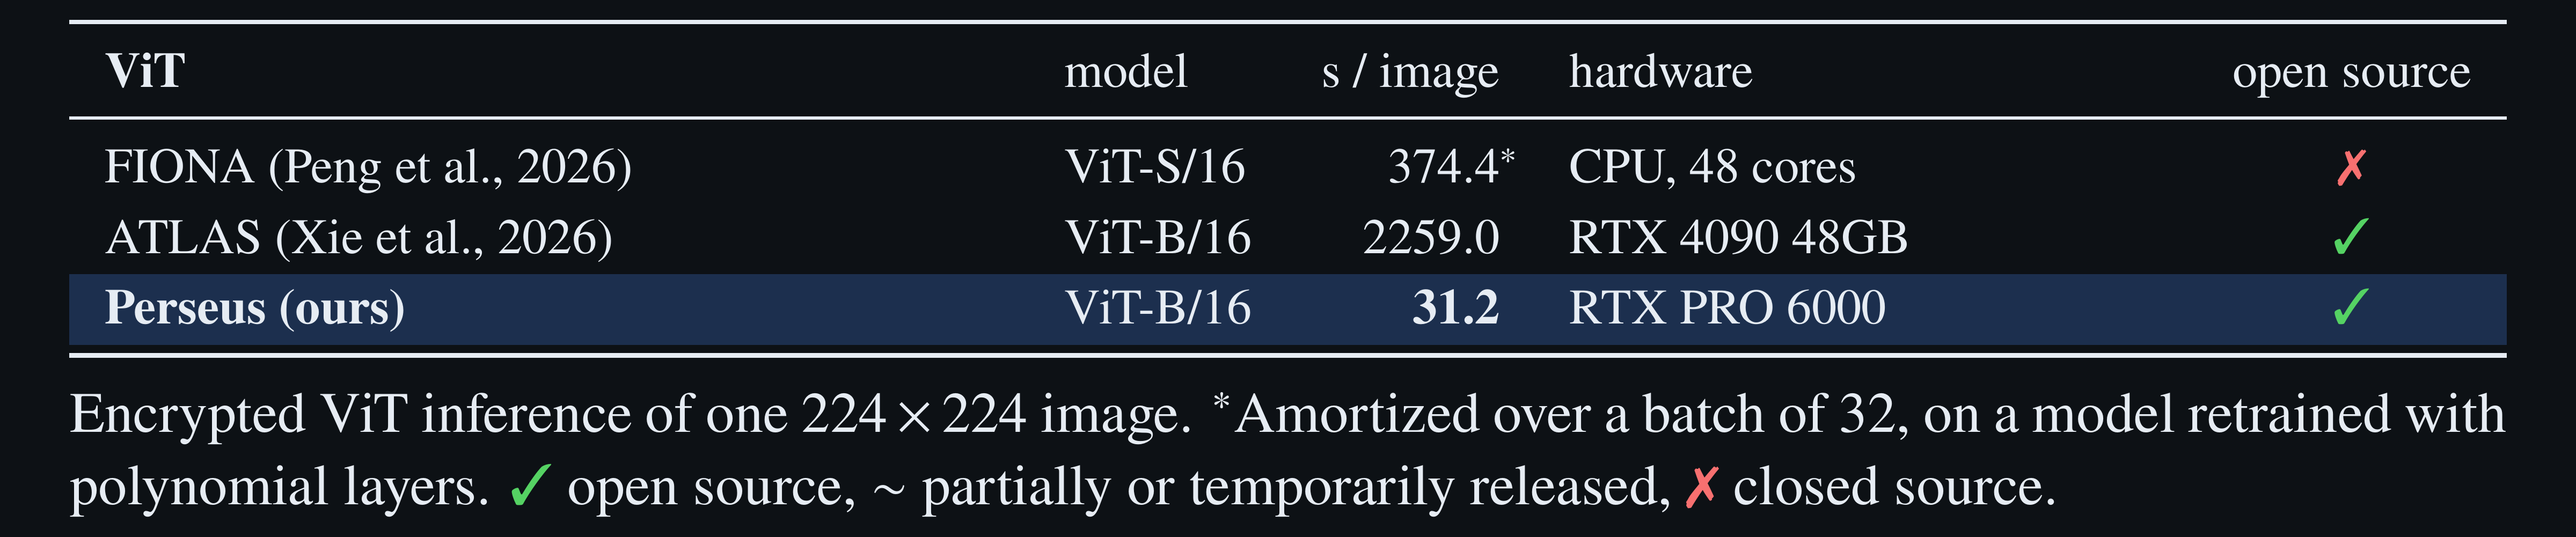
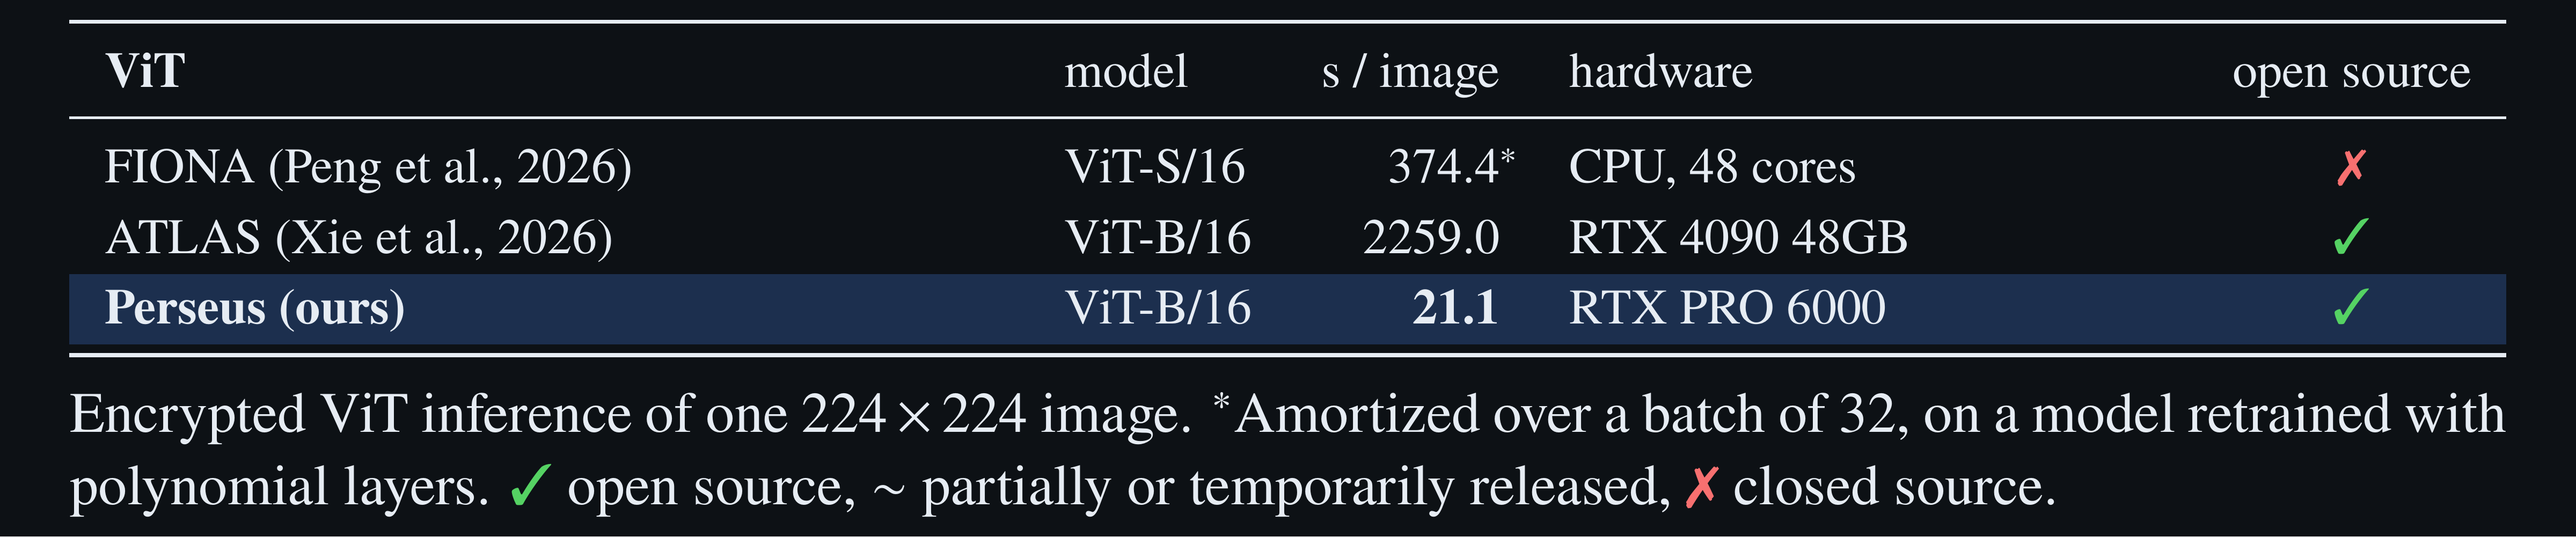
README: the times, peak memory and core primitives of the new defaults

Changed region(s): [[0.0, 0.991, 1.0, 1.0], [0.5312, 0.5574, 0.5625, 0.5884]]

diff --git a/assets/paper-tables.tex b/assets/paper-tables.tex
@@ -16,15 +16,15 @@
 \pagecolor{bg}\color{fg}
 \arrayrulecolor{fg}
 \setlength{\dashlinedash}{3pt}\setlength{\dashlinegap}{3pt}
-% Perseus' numbers on the Rust + CUDA runtime (the shipped default plans, 2026-10-30: medians of 2 paired rounds on
+% Perseus' numbers on the Rust + CUDA runtime (the shipped default plans, 2026-11-02: medians of 2 paired rounds on
 % one isolated GPU; decode at a 512-token context, positions 500-511 after a 500-position plaintext prefix)
-\newcommand{\llamapf}{71.0}\newcommand{\llamadec}{9.69}\newcommand{\gptpf}{9.62}\newcommand{\gptdec}{2.62}
-\newcommand{\vitimg}{31.2}\newcommand{\bertin}{12.2}
+\newcommand{\llamapf}{54.8}\newcommand{\llamadec}{7.83}\newcommand{\gptpf}{6.77}\newcommand{\gptdec}{1.91}
+\newcommand{\vitimg}{21.1}\newcommand{\bertin}{8.57}
 % peak GPU memory, GiB: total (94.97) minus the lowest free of the run (the prefills replay CUDA graphs, captured in
 % the first forward after setup); the decode rows at a short context (the repro scripts' 16 tokens), Llama's the
 % GPU's peak used memory over the run (its runner reports no free memory)
-\newcommand{\llamapfmem}{86.3}\newcommand{\llamadecmem}{48.2}\newcommand{\gptpfmem}{58.8}\newcommand{\gptdecmem}{59.1}
-\newcommand{\vitmem}{60.6}\newcommand{\bertmem}{56.0}
+\newcommand{\llamapfmem}{86.0}\newcommand{\llamadecmem}{50.7}\newcommand{\gptpfmem}{56.2}\newcommand{\gptdecmem}{56.7}
+\newcommand{\vitmem}{62.0}\newcommand{\bertmem}{57.3}
 \newcommand{\oursrow}{\rowcolor{ours}}
 \newcommand{\oc}{\cellcolor{ours}}
 \newcommand{\yes}{\textcolor{yescol}{\ding{51}}}
@@ -133,7 +133,8 @@ Cerium (Jayashankar et al., 2025) & BERT-base & 128 & 43.6\nt{\S} & RTX PRO 6000
 our GPU. \legend}
 \end{tbl}
 
-% perseus-core primitives (2026-10-30, GPU 4 alone, PC_BENCH_CHAIN=n32a4): pc-bench modmul --k 1,8 --reps 20 (the u32xBarrett64
+% perseus-core primitives (2026-11-02, GPU 4 alone, PC_BENCH_CHAIN=n32a4; pc-bench built with --features pc-kernels/mont,
+% the Montgomery instantiation modmul compares): pc-bench modmul --k 1,8 --reps 20 (the u32xBarrett64
 % column, rotation KS Regen, rescale = its `rescale only` row, batch rows / 8) and pc-bench bts --all --k 1,8 --reps 20
 % --keys packed (eager)
 \begin{tbl}
@@ -141,19 +142,19 @@ our GPU. \legend}
 \toprule
 \textbf{perseus-core} & one ciphertext (ms) & batch of 8 (ms per ciphertext) \\
 \midrule
-addition & 0.015 & 0.054 \\
-multiplication by a scalar & 0.016 & 0.037 \\
+addition & 0.014 & 0.054 \\
+multiplication by a scalar & 0.017 & 0.037 \\
 multiplication by a plaintext & 0.015 & 0.037 \\
-multiplication, relinearized & 0.413 & 0.439 \\
-rescale & 0.057 & 0.072 \\
-rotation & 0.360 & 0.378 \\
-NTT, forward and inverse & 0.070 & 0.098 \\
+multiplication, relinearized & 0.356 & 0.415 \\
+rescale & 0.047 & 0.065 \\
+rotation & 0.284 & 0.358 \\
+NTT, forward and inverse & 0.057 & 0.089 \\
 \cdashline{1-3}\noalign{\vskip 3pt}
-bootstrap, dense ($2^{15}$ slots) & 15.2 & 14.0 \\
-bootstrap, StC first ($2^{15}$ slots) & 13.0 & 11.7 \\
-bootstrap, sparse (512 slots) & 13.1 & 13.0 \\
-bootstrap, sparse (256 slots) & 12.2 & 12.6 \\
-bootstrap, one slot & 7.3 & 7.7 \\
+bootstrap, dense ($2^{15}$ slots) & 12.2 & 12.8 \\
+bootstrap, StC first ($2^{15}$ slots) & 10.5 & 10.7 \\
+bootstrap, sparse (512 slots) & 10.7 & 11.9 \\
+bootstrap, sparse (256 slots) & 10.0 & 11.4 \\
+bootstrap, one slot & 5.8 & 6.9 \\
 \bottomrule
 \end{tabularx}
 \tcap{\thickmuskip=5mu\medmuskip=4mu CKKS primitives on one NVIDIA RTX PRO 6000, device time per call (CUDA events), the

diff --git a/README.md b/README.md
@@ -37,7 +37,7 @@ our 32-bit GPU port of [FIDESlib](https://github.com/CAPS-UMU/FIDESlib)).
     <picture>
       <source media="(prefers-color-scheme: dark)" srcset="assets/paper-tables-overview-dark.png">
       <source media="(prefers-color-scheme: light)" srcset="assets/paper-tables-overview-light.png">
-      <img src="assets/paper-tables-overview-light.png" alt="Perseus, encrypted, end to end on one RTX PRO 6000 with 128-bit security, and the peak GPU memory of each run (Llama-3-8B streams its weights from host memory, GPT-2 small keeps its weights on the GPU). Llama-3-8B prefill of a 128-token prompt 71.0 s (86.3 GiB), decode of one token at a 512-token context 9.69 s (48.2 GiB when decoding 16 tokens). GPT-2 small prefill 9.62 s (58.8 GiB), decode 2.62 s per token at a 512-token context (59.1 GiB when decoding 16 tokens). ViT-B/16 31.2 s per image (60.6 GiB). BERT-base 12.2 s for 128 tokens (56.0 GiB)." width="707">
+      <img src="assets/paper-tables-overview-light.png" alt="Perseus, encrypted, end to end on one RTX PRO 6000 with 128-bit security, and the peak GPU memory of each run (Llama-3-8B streams its weights from host memory, GPT-2 small keeps its weights on the GPU). Llama-3-8B prefill of a 128-token prompt 54.8 s (86.0 GiB), decode of one token at a 512-token context 7.83 s (50.7 GiB when decoding 16 tokens). GPT-2 small prefill 6.77 s (56.2 GiB), decode 1.91 s per token at a 512-token context (56.7 GiB when decoding 16 tokens). ViT-B/16 21.1 s per image (62.0 GiB). BERT-base 8.57 s for 128 tokens (57.3 GiB)." width="707">
     </picture>
   </a>
 </p>
@@ -64,7 +64,7 @@ ours where the code is released.
     <picture>
       <source media="(prefers-color-scheme: dark)" srcset="assets/paper-tables-llama-dark.png">
       <source media="(prefers-color-scheme: light)" srcset="assets/paper-tables-llama-light.png">
-      <img src="assets/paper-tables-llama-light.png" alt="Encrypted Llama-3-8B. Prefill of a 128-token prompt, seconds. MOAI 3592.0 on H200, NEXUS 829.0 on 4 A100, Euston 484.0, STIP 406.6 (composed timings, amortized over a batch); Odin 366.4 on H100; Cerium 347.5 (replicated on RTX PRO 6000); Sylph 116.0 (composed); Perseus 71.0 on RTX PRO 6000, open source. Decode of one token, seconds per token at a context size. AR-HE 1569.0 at 32, ROSETTA 311.0 at 512, Cachemir 97.0 at 512, Sylph 31.0 at 128 (all composed timings); Perseus 9.69 at 512 on RTX PRO 6000, open source." width="707">
+      <img src="assets/paper-tables-llama-light.png" alt="Encrypted Llama-3-8B. Prefill of a 128-token prompt, seconds. MOAI 3592.0 on H200, NEXUS 829.0 on 4 A100, Euston 484.0, STIP 406.6 (composed timings, amortized over a batch); Odin 366.4 on H100; Cerium 347.5 (replicated on RTX PRO 6000); Sylph 116.0 (composed); Perseus 54.8 on RTX PRO 6000, open source. Decode of one token, seconds per token at a context size. AR-HE 1569.0 at 32, ROSETTA 311.0 at 512, Cachemir 97.0 at 512, Sylph 31.0 at 128 (all composed timings); Perseus 7.83 at 512 on RTX PRO 6000, open source." width="707">
     </picture>
   </a>
   <br>
@@ -72,7 +72,7 @@ ours where the code is released.
     <picture>
       <source media="(prefers-color-scheme: dark)" srcset="assets/paper-tables-gpt2-dark.png">
       <source media="(prefers-color-scheme: light)" srcset="assets/paper-tables-gpt2-light.png">
-      <img src="assets/paper-tables-gpt2-light.png" alt="Encrypted GPT-2 small. AR-HE 128-token prefill 18520.0 s, decode 544.0 s per token at context 33. ROSETTA decode 78.6 s at 512 (composed). EncryptedLLM decode 68.0 s at 128. Perseus prefill 9.62 s, decode 2.62 s per token at context 512, on RTX PRO 6000, open source." width="707">
+      <img src="assets/paper-tables-gpt2-light.png" alt="Encrypted GPT-2 small. AR-HE 128-token prefill 18520.0 s, decode 544.0 s per token at context 33. ROSETTA decode 78.6 s at 512 (composed). EncryptedLLM decode 68.0 s at 128. Perseus prefill 6.77 s, decode 1.91 s per token at context 512, on RTX PRO 6000, open source." width="707">
     </picture>
   </a>
   <br>
@@ -80,7 +80,7 @@ ours where the code is released.
     <picture>
       <source media="(prefers-color-scheme: dark)" srcset="assets/paper-tables-vit-dark.png">
       <source media="(prefers-color-scheme: light)" srcset="assets/paper-tables-vit-light.png">
-      <img src="assets/paper-tables-vit-light.png" alt="Encrypted ViT inference of one image, seconds. FIONA, ViT-S/16, 374.4 on a 48-core CPU (amortized over a batch of 32, retrained polynomial model); ATLAS, ViT-B/16, 2259.0 on RTX 4090; Perseus, ViT-B/16, 31.2 on RTX PRO 6000, open source." width="707">
+      <img src="assets/paper-tables-vit-light.png" alt="Encrypted ViT inference of one image, seconds. FIONA, ViT-S/16, 374.4 on a 48-core CPU (amortized over a batch of 32, retrained polynomial model); ATLAS, ViT-B/16, 2259.0 on RTX 4090; Perseus, ViT-B/16, 21.1 on RTX PRO 6000, open source." width="707">
     </picture>
   </a>
   <br>
@@ -88,7 +88,7 @@ ours where the code is released.
     <picture>
       <source media="(prefers-color-scheme: dark)" srcset="assets/paper-tables-bert-dark.png">
       <source media="(prefers-color-scheme: light)" srcset="assets/paper-tables-bert-light.png">
-      <img src="assets/paper-tables-bert-light.png" alt="Encrypted BERT inference of one input, seconds. THOR, BERT-base, 128 tokens, 602.0 on A100; POLARIS, BERT-Mini, 83.0 on A100; Cerium, BERT-base, 128 tokens, 43.6 (replicated on RTX PRO 6000); Perseus, BERT-base, 128 tokens, 12.2 on RTX PRO 6000, open source." width="707">
+      <img src="assets/paper-tables-bert-light.png" alt="Encrypted BERT inference of one input, seconds. THOR, BERT-base, 128 tokens, 602.0 on A100; POLARIS, BERT-Mini, 83.0 on A100; Cerium, BERT-base, 128 tokens, 43.6 (replicated on RTX PRO 6000); Perseus, BERT-base, 128 tokens, 8.57 on RTX PRO 6000, open source." width="707">
     </picture>
   </a>
 </p>
@@ -106,7 +106,7 @@ primitives on one RTX PRO 6000, and the two commands under it reproduce the tabl
     <picture>
       <source media="(prefers-color-scheme: dark)" srcset="assets/paper-tables-core-dark.png">
       <source media="(prefers-color-scheme: light)" srcset="assets/paper-tables-core-light.png">
-      <img src="assets/paper-tables-core-light.png" alt="perseus-core CKKS primitives on one RTX PRO 6000, device milliseconds per call for one ciphertext and per ciphertext in a batch of 8. Addition 0.015 and 0.054, multiplication by a scalar 0.016 and 0.037, by a plaintext 0.015 and 0.037, relinearized multiplication 0.413 and 0.439, rescale 0.057 and 0.072, rotation 0.360 and 0.378, forward and inverse NTT 0.070 and 0.098. Bootstraps, dense 15.2 and 14.0, StC first 13.0 and 11.7, sparse 512 slots 13.1 and 13.0, sparse 256 slots 12.2 and 12.6, one slot 7.3 and 7.7. Ring 2^16, 51 + 13 primes in 32-bit words, log QP 1734, dnum 4, 128-bit security." width="707">
+      <img src="assets/paper-tables-core-light.png" alt="perseus-core CKKS primitives on one RTX PRO 6000, device milliseconds per call for one ciphertext and per ciphertext in a batch of 8. Addition 0.014 and 0.054, multiplication by a scalar 0.017 and 0.037, by a plaintext 0.015 and 0.037, relinearized multiplication 0.356 and 0.415, rescale 0.047 and 0.065, rotation 0.284 and 0.358, forward and inverse NTT 0.057 and 0.089. Bootstraps, dense 12.2 and 12.8, StC first 10.5 and 10.7, sparse 512 slots 10.7 and 11.9, sparse 256 slots 10.0 and 11.4, one slot 5.8 and 6.9. Ring 2^16, 51 + 13 primes in 32-bit words, log QP 1734, dnum 4, 128-bit security." width="707">
     </picture>
   </a>
 </p>
@@ -216,8 +216,8 @@ be skipped.
 You need the following.
 - Linux, an NVIDIA GPU of compute capability 12.0 (Blackwell; the kernels are built for `sm_120`)
   and CUDA 13.2 (`CUDA_HOME`, default `/usr/local/cuda-13.2`).
-- A GPU with enough memory for the run. Decoding peaks at 59.1 GiB with GPT-2 and 48.2 GiB with
-  Llama-3-8B, and the Llama-3-8B prefill needs the most, 86.3 GiB (the first table lists every peak,
+- A GPU with enough memory for the run. Decoding peaks at 56.7 GiB with GPT-2 and 50.7 GiB with
+  Llama-3-8B, and the Llama-3-8B prefill needs the most, 86.0 GiB (the first table lists every peak,
   measured on a 96 GB GPU).
 - The Rust toolchain (`rustup`; `rust-toolchain.toml` pins the version) and Python 3.12.
 
